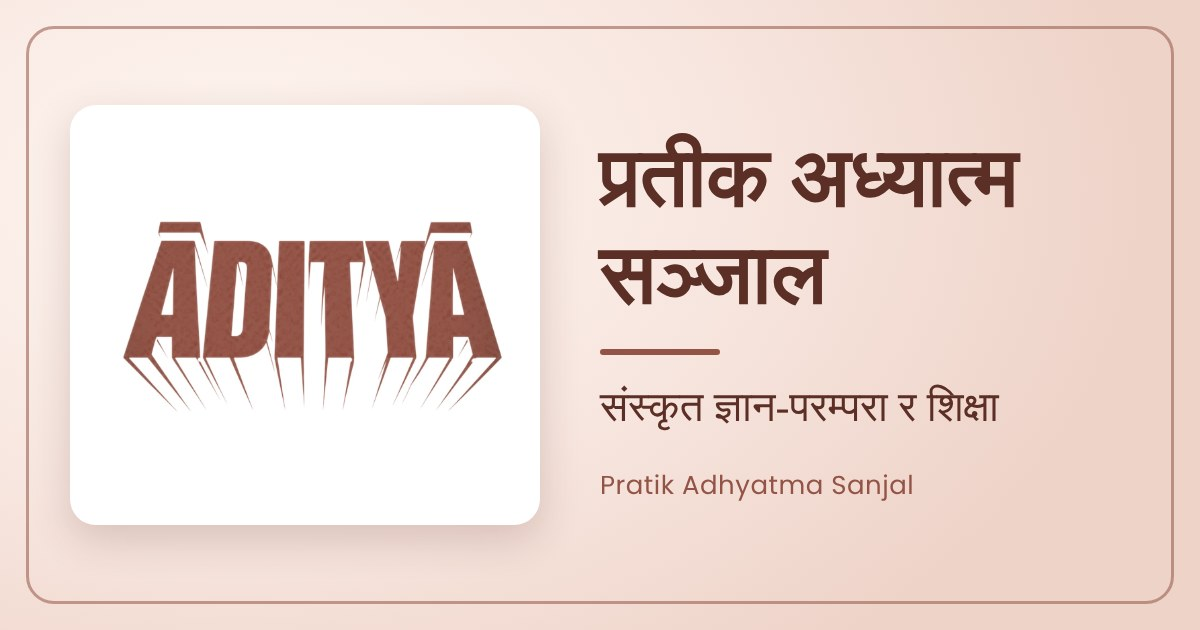
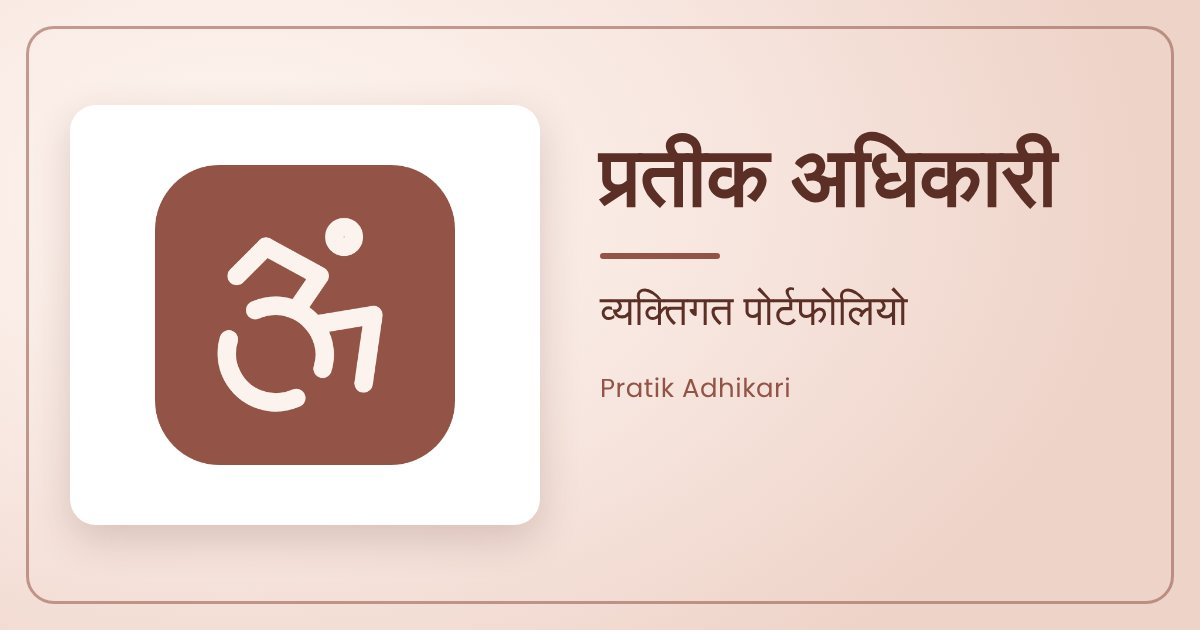
वेबसाइटको नाम 'प्रतीक अधिकारी' — व्यक्तिगत पोर्टफोलियो (शीर्षक, meta, schema, manifest, share-card)
Claude-Session: https://claude.ai/code/session_011iUmWhi5FtVfMvqjgodqZN

diff --git a/index.html b/index.html
@@ -6,20 +6,20 @@
 <meta http-equiv="Cache-Control" content="no-cache, no-store, must-revalidate">
 <meta http-equiv="Pragma" content="no-cache">
 <meta http-equiv="Expires" content="0">
-<title>प्रतीक अध्यात्म सञ्जाल (Pratik Adhyatma Sanjal) – संस्कृत ज्ञान-परम्परा र शिक्षा</title>
-<meta name="description" content="प्रतीक अध्यात्म सञ्जाल (Pratik Adhyatma Sanjal) — संस्कृत वाङ्मय र शास्त्र-परम्पराको प्राचीन ज्ञान-विज्ञानलाई आधुनिक पुस्तासम्म रोचक ढङ्गले पुर्याउने नेपाली संस्कृत ज्ञान अभियान। श्लोक, लेख, समाचार र किताब।">
-<meta name="keywords" content="प्रतीक अध्यात्म सञ्जाल, Pratik Adhyatma Sanjal, Pratik Adhyatma Network, अध्यात्म सञ्जाल, संस्कृत, संस्कृत शिक्षा, श्लोक, नेपाल">
+<title>प्रतीक अधिकारी (Pratik Adhikari) – व्यक्तिगत पोर्टफोलियो</title>
+<meta name="description" content="प्रतीक अधिकारी (Pratik Adhikari) — संस्कृत वाङ्मय र शास्त्र-परम्पराको प्राचीन ज्ञान-विज्ञानलाई आधुनिक पुस्तासम्म रोचक ढङ्गले पुर्याउने नेपाली संस्कृत ज्ञान अभियान। श्लोक, लेख, समाचार र किताब।">
+<meta name="keywords" content="प्रतीक अधिकारी, Pratik Adhikari, Pratik Adhikari Portfolio, व्यक्तिगत पोर्टफोलियो, संस्कृत, संस्कृत शिक्षा, श्लोक, नेपाल">
 <meta name="robots" content="index, follow, max-snippet:-1">
 <link rel="canonical" href="https://pratikadhikari.pratikadhikari98.com.np/">
 <meta property="og:type" content="website">
-<meta property="og:site_name" content="प्रतीक अध्यात्म सञ्जाल">
-<meta property="og:title" content="प्रतीक अध्यात्म सञ्जाल (Pratik Adhyatma Sanjal) – संस्कृत ज्ञान-परम्परा र शिक्षा">
-<meta property="og:description" content="प्रतीक अध्यात्म सञ्जाल (Pratik Adhyatma Sanjal) — संस्कृत वाङ्मय र शास्त्र-परम्पराको प्राचीन ज्ञान-विज्ञानलाई आधुनिक पुस्तासम्म रोचक ढङ्गले पुर्याउने नेपाली संस्कृत ज्ञान अभियान। श्लोक, लेख, समाचार र किताब।">
+<meta property="og:site_name" content="प्रतीक अधिकारी">
+<meta property="og:title" content="प्रतीक अधिकारी (Pratik Adhikari) – व्यक्तिगत पोर्टफोलियो">
+<meta property="og:description" content="प्रतीक अधिकारी (Pratik Adhikari) — संस्कृत वाङ्मय र शास्त्र-परम्पराको प्राचीन ज्ञान-विज्ञानलाई आधुनिक पुस्तासम्म रोचक ढङ्गले पुर्याउने नेपाली संस्कृत ज्ञान अभियान। श्लोक, लेख, समाचार र किताब।">
 <meta property="og:url" content="https://pratikadhikari.pratikadhikari98.com.np/">
 <meta property="og:image" content="https://pratikadhikari.pratikadhikari98.com.np/share-card.jpg">
 <meta property="og:image:width" content="1200">
 <meta property="og:image:height" content="630">
-<meta property="og:image:alt" content="प्रतीक अध्यात्म सञ्जाल — संस्कृत ज्ञान-परम्परा र शिक्षा">
+<meta property="og:image:alt" content="प्रतीक अधिकारी — व्यक्तिगत पोर्टफोलियो">
 <meta property="og:locale" content="ne_NP">
 <meta name="twitter:card" content="summary_large_image">
 <meta name="twitter:image" content="https://pratikadhikari.pratikadhikari98.com.np/share-card.jpg">
@@ -27,21 +27,21 @@
 {
   "@context": "https://schema.org",
   "@type": "WebSite",
-  "name": "प्रतीक अध्यात्म सञ्जाल",
-  "alternateName": ["Pratik Adhyatma Sanjal", "PRATIK ADHYATMA SANJAL", "Pratik Adhyatma Network"],
+  "name": "प्रतीक अधिकारी",
+  "alternateName": ["Pratik Adhikari", "PRATIK ADHIKARI", "Pratik Adhikari Portfolio"],
   "url": "https://pratikadhikari.pratikadhikari98.com.np/",
   "inLanguage": "ne",
-  "description": "प्रतीक अध्यात्म सञ्जाल (Pratik Adhyatma Sanjal) — संस्कृत वाङ्मय र शास्त्र-परम्पराको प्राचीन ज्ञान-विज्ञानलाई आधुनिक पुस्तासम्म रोचक ढङ्गले पुर्याउने नेपाली संस्कृत ज्ञान अभियान। श्लोक, लेख, समाचार र किताब।"
+  "description": "प्रतीक अधिकारी (Pratik Adhikari) — संस्कृत वाङ्मय र शास्त्र-परम्पराको प्राचीन ज्ञान-विज्ञानलाई आधुनिक पुस्तासम्म रोचक ढङ्गले पुर्याउने नेपाली संस्कृत ज्ञान अभियान। श्लोक, लेख, समाचार र किताब।"
 }
 </script>
 <script type="application/ld+json">
 {
   "@context": "https://schema.org",
-  "@type": "Organization",
-  "name": "प्रतीक अध्यात्म सञ्जाल",
-  "alternateName": ["Pratik Adhyatma Sanjal", "PRATIK ADHYATMA SANJAL", "Pratik Adhyatma Network"],
+  "@type": "Person",
+  "name": "प्रतीक अधिकारी",
+  "alternateName": ["Pratik Adhikari", "PRATIK ADHIKARI", "Pratik Adhikari Portfolio"],
   "url": "https://pratikadhikari.pratikadhikari98.com.np/",
-  "logo": "https://pratikadhikari.pratikadhikari98.com.np/icon-512.png"
+  "image": "https://pratikadhikari.pratikadhikari98.com.np/icon-512.png"
 }
 </script>
 <link rel="manifest" href="manifest.json">
@@ -53,7 +53,7 @@
 <meta name="apple-mobile-web-app-capable" content="yes">
 <meta name="apple-mobile-web-app-status-bar-style" content="black-translucent">
 <link href="https://fonts.googleapis.com/css2?family=Akshar:wght@400;500;600;700&family=Eczar:wght@400;500;600;700;800&family=Khand:wght@400;500;600;700&family=Noto+Sans+Devanagari:wght@400;600;700;900&family=Noto+Serif+Devanagari:wght@400;700&display=swap" rel="stylesheet">
-<link rel="stylesheet" href="styles.css?v=20261017a" id="themeStylesheet">
+<link rel="stylesheet" href="styles.css?v=20261026a" id="themeStylesheet">
 <style>
   .news-page-inner { max-width: 1080px; margin: 0 auto; padding-top: 14px; }
   .news-feed-section { padding-top: 10px; padding-bottom: 10px; }
@@ -260,7 +260,7 @@
 <!-- HEADER -->
 <header id="siteHeader">
   <div class="logo-area">
-    <div class="aditya-access-icon" id="adityaAccessIcon" role="img" aria-label="प्रतीक अध्यात्म सञ्जाल" tabindex="0">
+    <div class="aditya-access-icon" id="adityaAccessIcon" role="img" aria-label="प्रतीक अधिकारी" tabindex="0">
       <svg fill="none" width="72" height="72" stroke="currentColor" stroke-linecap="round" stroke-linejoin="round" stroke-width="2" viewBox="0 0 24 24" xmlns="http://www.w3.org/2000/svg">
         <circle class="ac-circle" cx="16" cy="4" r="1"/>
         <g class="ac-primary">
@@ -304,7 +304,7 @@
 <!-- HERO -->
 <section class="hero" id="home">
   <div class="hero-text">
-    <h1 class="site-h1">प्रतीक अध्यात्म सञ्जाल (Pratik Adhyatma Sanjal)</h1>
+    <h1 class="site-h1">प्रतीक अधिकारी (Pratik Adhikari)</h1>
     <div class="shloka-rotator" id="shlokaRotator" data-source="data/shlokas.json">
       <h2 class="hero-shloka" id="shlokaText"></h2>
       <div class="section-label" style="text-align:left;">श्लोकार्थ</div>
@@ -523,7 +523,7 @@ document.addEventListener('click', function(e){
 <section class="why-section" id="purpose">
   <div class="about-inner">
     <div class="about-photo">
-      <img src="photos/about-krishna.webp" alt="प्रतीक अध्यात्म सञ्जाल">
+      <img src="photos/about-krishna.webp" alt="प्रतीक अधिकारी">
     </div>
     <div class="about-textcard">
       <p class="about-text" id="aboutText" data-source="data/about.json"></p>
@@ -623,7 +623,7 @@ document.addEventListener('click', function(e){
   </div>
 </section>
 
-<footer class="site-copy" data-view="about"><div class="nm-card" id="copyText" aria-label="© २०२६ प्रतीक अध्यात्म सञ्जाल · सर्वाधिकार सुरक्षित">© २०२६ प्रतीक अध्यात्म सञ्जाल · सर्वाधिकार सुरक्षित</div></footer>
+<footer class="site-copy" data-view="about"><div class="nm-card" id="copyText" aria-label="© २०२६ प्रतीक अधिकारी · सर्वाधिकार सुरक्षित">© २०२६ प्रतीक अधिकारी · सर्वाधिकार सुरक्षित</div></footer>
 
 
 <!-- समाचार + किताब + विज्ञापन (news.html बाट गृहपृष्ठमा सारिएको) -->
@@ -1496,7 +1496,7 @@ document.addEventListener('click', function(e){
     track.innerHTML = items.map(function(item){
       return '<div class="showcase-top showcase-slide">' +
                '<div class="showcase-text"><p>' + escapeHtml(item.text) + '</p></div>' +
-               '<div class="showcase-photo"><img src="' + escapeHtml(item.image) + '" alt="प्रतीक अध्यात्म सञ्जाल"></div>' +
+               '<div class="showcase-photo"><img src="' + escapeHtml(item.image) + '" alt="प्रतीक अधिकारी"></div>' +
              '</div>';
     }).join('');
 
@@ -1665,7 +1665,7 @@ if ('serviceWorker' in navigator) {
     email:     "mailto:apratik055@gmail.com"
   };
   Array.prototype.forEach.call(document.querySelectorAll('[data-pt]'),function(el){ if(window.toPreeti) el.innerHTML=window.toPreeti(el.getAttribute('data-pt')); });
-  var ct=document.getElementById('copyText'); if(ct&&window.toPreeti){ ct.innerHTML='<span style="font-family:Arial,sans-serif;-webkit-text-stroke:0">©</span> '+window.toPreeti('२०२६ प्रतीक अध्यात्म सञ्जाल')+' <span style="font-family:Arial,sans-serif;-webkit-text-stroke:0">·</span> '+window.toPreeti('सर्वाधिकार सुरक्षित'); }
+  var ct=document.getElementById('copyText'); if(ct&&window.toPreeti){ ct.innerHTML='<span style="font-family:Arial,sans-serif;-webkit-text-stroke:0">©</span> '+window.toPreeti('२०२६ प्रतीक अधिकारी')+' <span style="font-family:Arial,sans-serif;-webkit-text-stroke:0">·</span> '+window.toPreeti('सर्वाधिकार सुरक्षित'); }
   var items=document.querySelectorAll('#agPanel .ag-menu li');
   Array.prototype.forEach.call(items,function(li){
     var a=li.querySelector('a'), key=a.getAttribute('data-ag'), url=LINKS[key]||'';

diff --git a/admin.html b/admin.html
@@ -3,7 +3,7 @@
 <head>
 <meta charset="UTF-8">
 <meta name="viewport" content="width=device-width, initial-scale=1, viewport-fit=cover">
-<title>प्रतीक अध्यात्म सञ्जाल — Content Admin</title>
+<title>प्रतीक अधिकारी — Content Admin</title>
 <link rel="icon" href="/favicon.ico" sizes="48x48">
 <link rel="icon" type="image/png" sizes="48x48" href="/favicon-48x48.png">
 <link rel="icon" type="image/png" sizes="192x192" href="/favicon-192x192.png">
@@ -321,7 +321,7 @@ textarea.preeti-input { font-family: 'Ananda Devanagari Round', sans-serif; font
   </div>
 </div>
 
-<h1>प्रतीक अध्यात्म सञ्जाल — Content Admin</h1>
+<h1>प्रतीक अधिकारी — Content Admin</h1>
 <div class="sub">Showcase, श्लोक (Hero), र बारेमा टेक्स्ट — यहाँबाट edit गर्नुहोस्। Save गर्दा सिधै GitHub मा commit हुन्छ। तलको जुनसुकै शीर्षकमा थिचेर त्यसको ठ्याक्कै तल फारम खोल्नुहोस्।</div>
 
 <div class="acc-header open" data-target="githubCard">

diff --git a/about.html b/about.html
@@ -3,7 +3,7 @@
 <head>
 <meta charset="UTF-8">
 <meta name="viewport" content="width=device-width, initial-scale=1.0">
-<title>बारेमा – प्रतीक अध्यात्म सञ्जाल (Pratik Adhyatma Sanjal)</title>
+<title>बारेमा – प्रतीक अधिकारी (Pratik Adhikari)</title>
 <meta name="robots" content="noindex">
 <link rel="canonical" href="https://pratikadhikari.pratikadhikari98.com.np/index.html#view=about">
 <meta http-equiv="refresh" content="0; url=index.html#view=about">

diff --git a/news.html b/news.html
@@ -3,7 +3,7 @@
 <head>
 <meta charset="UTF-8">
 <meta name="viewport" content="width=device-width, initial-scale=1.0">
-<title>समाचार – प्रतीक अध्यात्म सञ्जाल (Pratik Adhyatma Sanjal)</title>
+<title>समाचार – प्रतीक अधिकारी (Pratik Adhikari)</title>
 <meta name="robots" content="noindex">
 <link rel="canonical" href="https://pratikadhikari.pratikadhikari98.com.np/index.html#view=news">
 <meta http-equiv="refresh" content="0; url=index.html#view=news">

diff --git a/book.html b/book.html
@@ -3,7 +3,7 @@
 <head>
 <meta charset="UTF-8">
 <meta name="viewport" content="width=device-width, initial-scale=1.0">
-<title>किताब – प्रतीक अध्यात्म सञ्जाल (Pratik Adhyatma Sanjal)</title>
+<title>किताब – प्रतीक अधिकारी (Pratik Adhikari)</title>
 <meta name="robots" content="noindex">
 <link rel="canonical" href="https://pratikadhikari.pratikadhikari98.com.np/index.html#view=book">
 <meta http-equiv="refresh" content="0; url=index.html#view=book">

diff --git a/readme.md b/readme.md
@@ -1,4 +1,4 @@
-# प्रतीक अध्यात्म सञ्जाल (Pratik Adhyatma Sanjal) वेबसाइट
+# प्रतीक अधिकारी (Pratik Adhikari) वेबसाइट
 
 Static HTML/CSS/JS वेबसाइट — कुनै build step चाहिँदैन।
 
